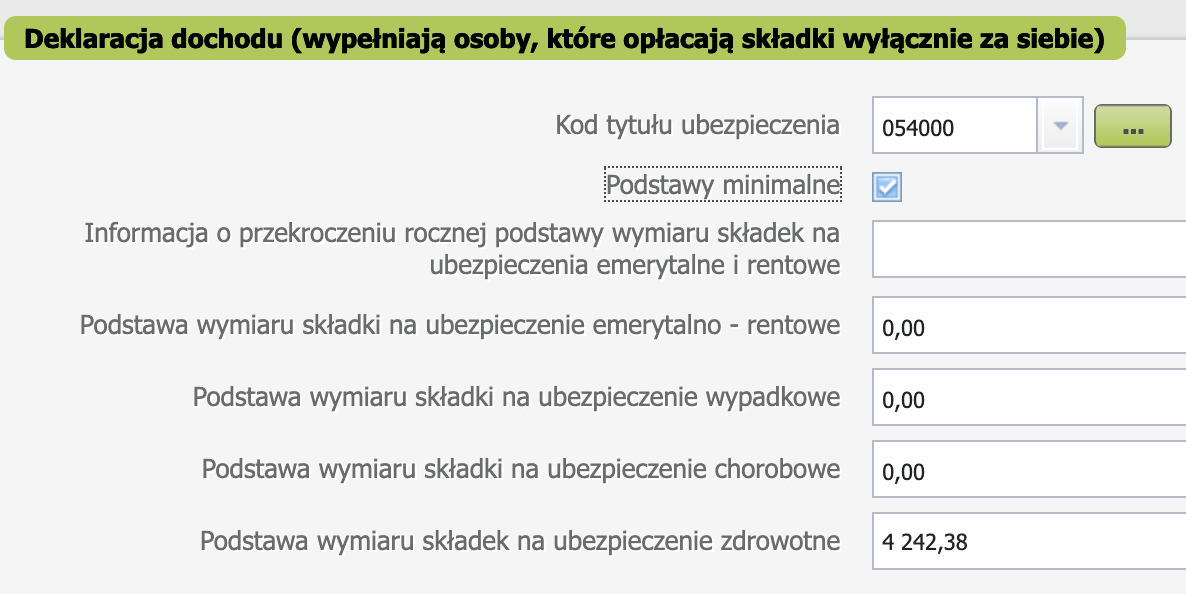
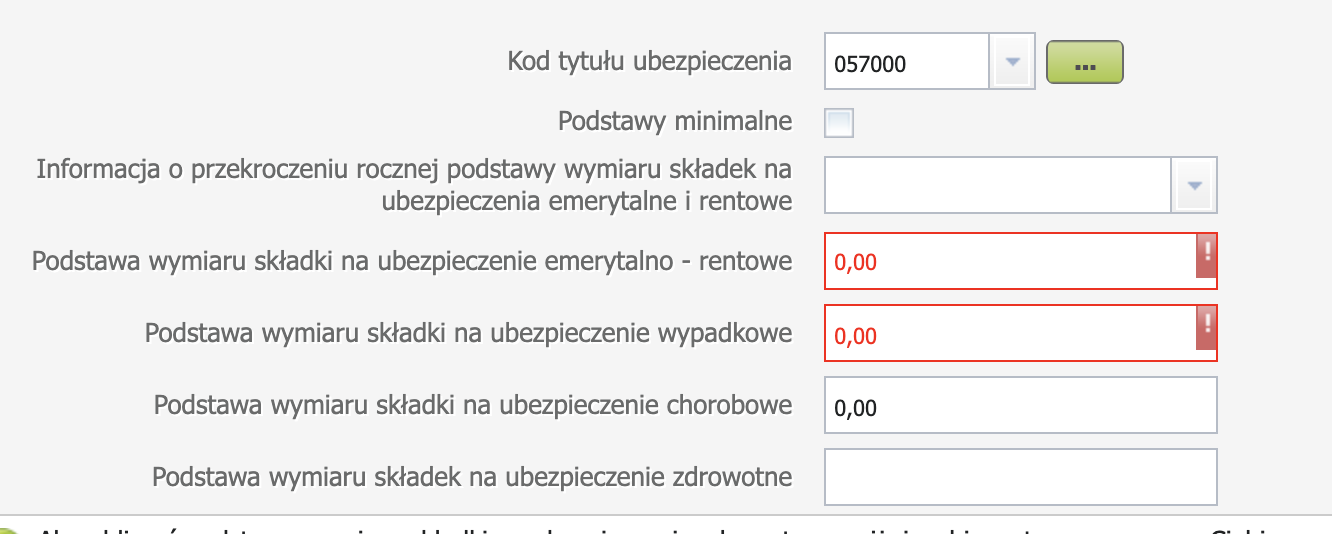
Write an article about zus dra and polski lad

Changed region(s): [[0.0, 0.0, 1.0, 0.7491], [0.0, 0.8689, 1.0, 1.0], [0.0936, 0.7191, 1.0, 0.8689]]

diff --git a/docs/declarations.md b/docs/declarations.md
@@ -2,8 +2,6 @@
 
 ## ZUS DRA
 
-Как отправить декларацию в ZUS если у вас Ulga na start (инструкция только для тех, у кого действует льгота).
-
 1. Перейти на вкладку ePłatnik.
 
     ![Choose ePłatnik tab][1]
@@ -19,15 +17,30 @@
 
 4. Любуемся своими данными и жмем Dalej.
 5. Nowy komplet rozliczeniowy -> Dalej.
-6. На следующем шаге ставим галочку что мы оплачиваем зус за себя
-и в выпадаюшем списке выбираем тип декларации 2 - до 10 числа. Остальное оставляем как есть.
-Соглашаемся с сообщением о том, что мы не указали процентную ставку на ubezpieczenie wypadkowe. Нам это не нужно.
+6. На следующем шаге нужно выбрать 2022 год и нужный месяц, поставить галочку что мы оплачиваем зус за себя
+и в выпадаюшем списке выбрать тип декларации 6 - до 20 числа. Если у вас действует **Ulga na start** - то
+поле "Stopa procentowa składek na ubezpieczenie wypadkowe" оставьте пустым. Иначе, вписываем туда значение **1,67**. Нажимаем Dalej. Если используете **Ulga na start** - то соглашайтесь с сообщением о том, что не указали процентную ставку на ubezpieczenie wypadkowe. Вам это не нужно.
 
     ![basic declaration options][6]
 
-7. Ставим галочку Podstawy minimalne. Страница автоматически подставляет нужную сумму как основу для расчета zus.
+7. С нового года ЗУС на рычалте зависит от доходов. Поэтому на этом шаге нужно указать ваши доходы за текущий или прошлый год.
 
-    ![Podstawy minimalne][7]
+    ![Podstawy skladek][7]
+
+    Чуть ниже на странице находим форму
+    "Forma opodatkowania obowiązująca w danym miesiącu oraz przychód i dochód z działalności gospodarczej dla celów wyliczenia składki miesięcznej na ubezpieczenie zdrowotne"
+    и выбираем свою форму налогообложения. Я сделаю пример на основе рычалта.
+    Есть два варианта расчета здровотной складки зуса: на основе доходов за текущий или за прошлый год. Если вы в прошлом году не вели деятельность - то вы можете рассчитать только на основе текущего года. Я сделаю пример на основе прошлого года. Обратите внимание что нужно заполнять либо за текущий год, либо за прошлый. Если заполнить оба поля - будет ошибка.
+
+    ![Podstawy skladek][71]
+
+    Теперь жмем кнопку **Oblicz** и сайт подсчитывает нам основание для складки здровотной.
+
+    ![Podstawy skladek][72]
+
+    Осталось пролистать вверх и в первой форме нажать кнопку "Podstawy minimalne" чтобы рассчитать все складки.
+
+    ![Podstawy skladek][73]
 
 8. На следующем экране менять ничего не нужно, даже
 если в ваш ZUS вписаны члены вашей семьи. Dalej.
@@ -48,5 +61,8 @@
 [3]: images/zus_dra/zus-dra-3.png
 [6]: images/zus_dra/zus-dra-6.png
 [7]: images/zus_dra/zus-dra-7.png
+[71]: images/zus_dra/zus-dra-7-1.png
+[72]: images/zus_dra/zus-dra-7-2.png
+[73]: images/zus_dra/zus-dra-7-3.png
 [8]: images/zus_dra/zus-dra-8.png
 [10]: images/zus_dra/zus-dra-10.png
